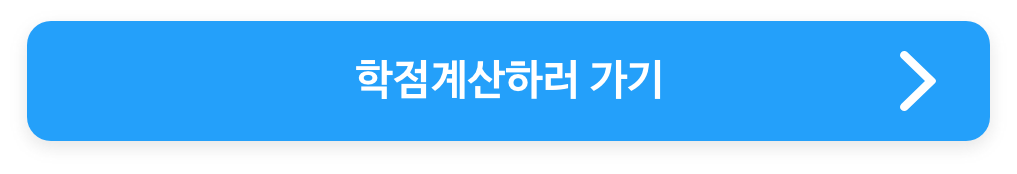
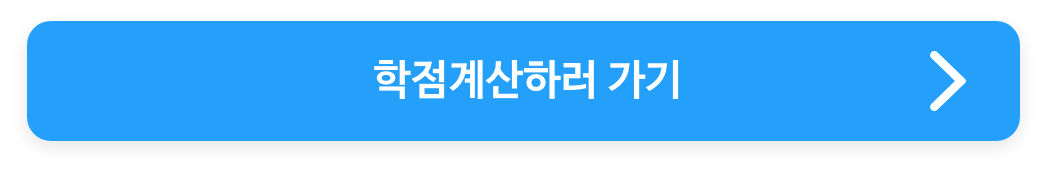
1. 성적 그래프 4학년 2학기까지 보이게 수정. 2. 학점계산 이미지 버튼 높이 수정.

Changed region(s): [[0.3353, 0.3448, 0.6706, 0.5747], [0.884, 0.2874, 0.9449, 0.6322]]

diff --git a/src/containers/hansungInfo/Grades.js b/src/containers/hansungInfo/Grades.js
@@ -146,7 +146,9 @@ class Grades extends React.Component {
         }
 
         for(let i = 0; i < avgData.length; i++) {
-            chartData.push({x: semesterData[i], y: avgData[i]});
+            if (i >= 8) break;
+            else
+                chartData.push({x: semesterData[i], y: avgData[i]});
         }
 
         return (
@@ -225,7 +227,7 @@ class Grades extends React.Component {
                                     </View>
 
                                     <TouchableOpacity onPress={() => {navigators.navigate("calculation");}}>
-                                        <Image style={{backgroundColor:'#ffffff', width: widthPercentageToDP(345), height: widthPercentageToDP(40)}} source={require("../../../assets/image/hansungInfo/calculation_of_credit.png")} />
+                                        <Image style={{backgroundColor:'#ffffff', width: widthPercentageToDP(345), height: widthPercentageToDP(58)}} source={require("../../../assets/image/hansungInfo/calculation_of_credit.png")} />
                                     </TouchableOpacity>
 
                                     <View style={{marginTop: widthPercentageToDP(28), marginLeft: widthPercentageToDP(7), marginBottom: widthPercentageToDP(12)}}>
